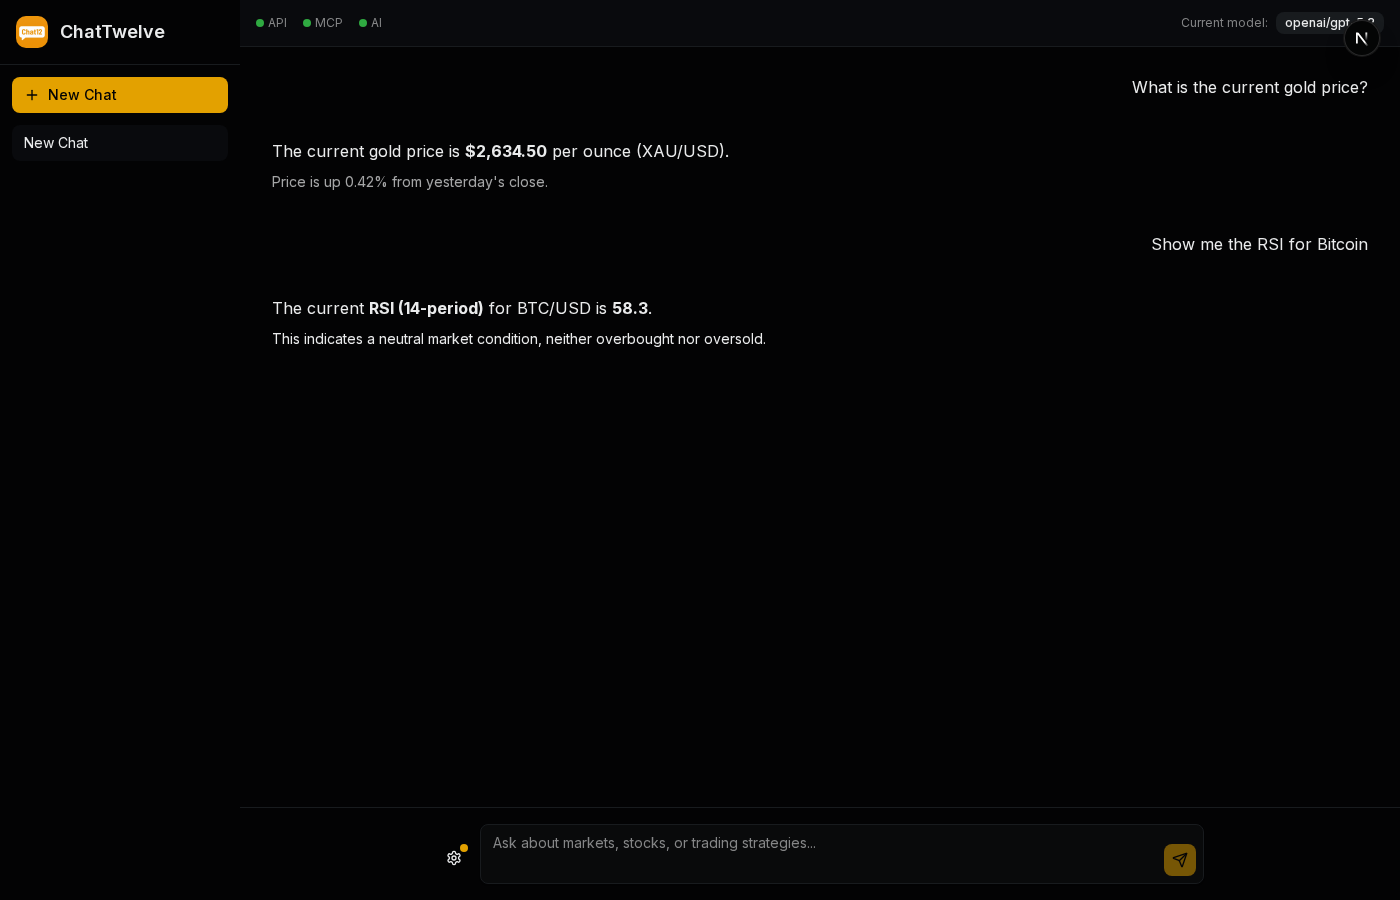
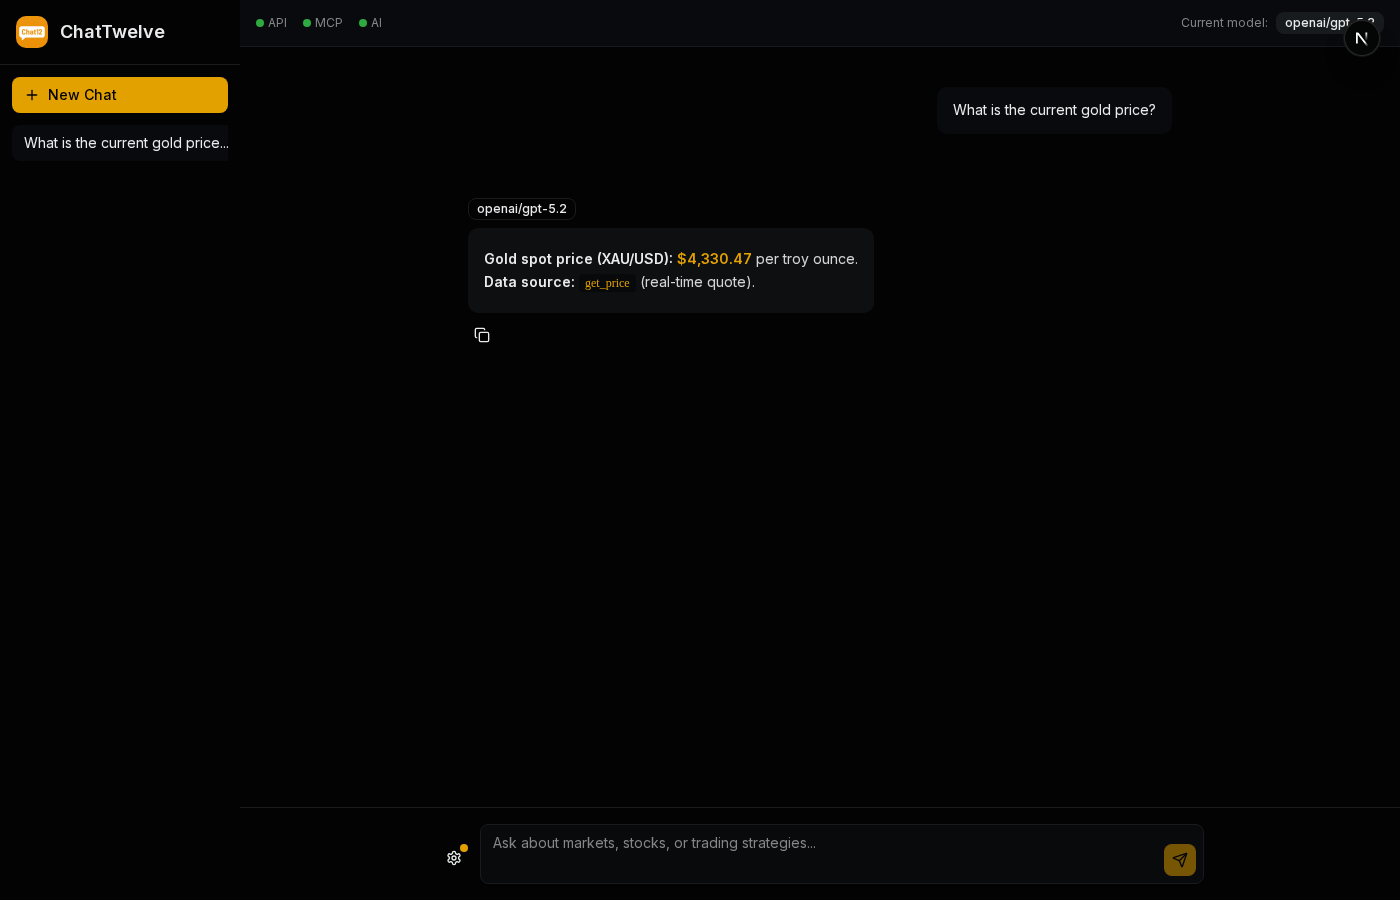
Fix chat screenshot to use real AI conversation
Update screenshot script to send actual message and wait for AI
response instead of injecting template HTML.

🤖 Generated with [Claude Code](https://claude.com/claude-code)

diff --git a/frontend/tests/screenshots.spec.ts b/frontend/tests/screenshots.spec.ts
@@ -63,50 +63,44 @@ test.describe('README Screenshots', () => {
   })
 
   test('capture chat with sample conversation', async ({ page }) => {
+    // Increase timeout for this test since AI responses can take a while
+    test.setTimeout(120000)
+
     await page.goto('/')
 
     // Wait for the app to load
     await page.waitForSelector('[data-testid="chat-input"], textarea, input[type="text"]', { timeout: 10000 })
 
-    // Add sample messages via JavaScript to simulate a conversation
-    await page.evaluate(() => {
-      // Find the chat area and inject sample messages
-      const chatArea = document.querySelector('[class*="flex-1"][class*="overflow-y-auto"]')
-      if (chatArea) {
-        chatArea.innerHTML = `
-          <div style="padding: 1rem; display: flex; flex-direction: column; gap: 1rem;">
-            <!-- User message -->
-            <div style="display: flex; justify-content: flex-end;">
-              <div style="background: hsl(var(--primary)); color: hsl(var(--primary-foreground)); padding: 0.75rem 1rem; border-radius: 1rem; max-width: 70%;">
-                What is the current gold price?
-              </div>
-            </div>
-            <!-- Assistant message -->
-            <div style="display: flex; justify-content: flex-start;">
-              <div style="background: hsl(var(--muted)); color: hsl(var(--foreground)); padding: 0.75rem 1rem; border-radius: 1rem; max-width: 70%;">
-                <p style="margin: 0;">The current gold price is <strong>$2,634.50</strong> per ounce (XAU/USD).</p>
-                <p style="margin: 0.5rem 0 0 0; font-size: 0.875rem; opacity: 0.7;">Price is up 0.42% from yesterday's close.</p>
-              </div>
-            </div>
-            <!-- User message -->
-            <div style="display: flex; justify-content: flex-end;">
-              <div style="background: hsl(var(--primary)); color: hsl(var(--primary-foreground)); padding: 0.75rem 1rem; border-radius: 1rem; max-width: 70%;">
-                Show me the RSI for Bitcoin
-              </div>
-            </div>
-            <!-- Assistant message -->
-            <div style="display: flex; justify-content: flex-start;">
-              <div style="background: hsl(var(--muted)); color: hsl(var(--foreground)); padding: 0.75rem 1rem; border-radius: 1rem; max-width: 70%;">
-                <p style="margin: 0;">The current <strong>RSI (14-period)</strong> for BTC/USD is <strong>58.3</strong>.</p>
-                <p style="margin: 0.5rem 0 0 0; font-size: 0.875rem;">This indicates a neutral market condition, neither overbought nor oversold.</p>
-              </div>
-            </div>
-          </div>
-        `
-      }
-    })
+    // Wait for session to initialize
+    await page.waitForTimeout(2000)
 
-    await page.waitForTimeout(500)
+    // Find the textarea and type a message
+    const textarea = page.locator('textarea').first()
+    await textarea.fill('What is the current gold price?')
+
+    // Find and click the send button (or press Enter)
+    const sendButton = page.locator('button[type="submit"]').first()
+    if (await sendButton.isVisible()) {
+      await sendButton.click()
+    } else {
+      await textarea.press('Enter')
+    }
+
+    // Wait for the AI response to complete (look for assistant message that's not streaming)
+    // The streaming message has id="streaming", so we wait until it's replaced with a final message
+    await page.waitForTimeout(3000) // Initial wait for response to start
+
+    // Wait for streaming to complete - check that no "streaming" element exists
+    // and that there's at least one assistant message
+    await page.waitForFunction(() => {
+      const messages = document.querySelectorAll('[class*="message"], [class*="Message"]')
+      // Look for any text content indicating a response (price, dollar sign, gold, etc.)
+      const pageText = document.body.innerText
+      return pageText.includes('$') || pageText.includes('gold') || pageText.includes('Gold') || pageText.includes('XAU')
+    }, { timeout: 60000 })
+
+    // Extra wait to ensure streaming is fully complete
+    await page.waitForTimeout(5000)
 
     // Take screenshot
     await page.screenshot({
